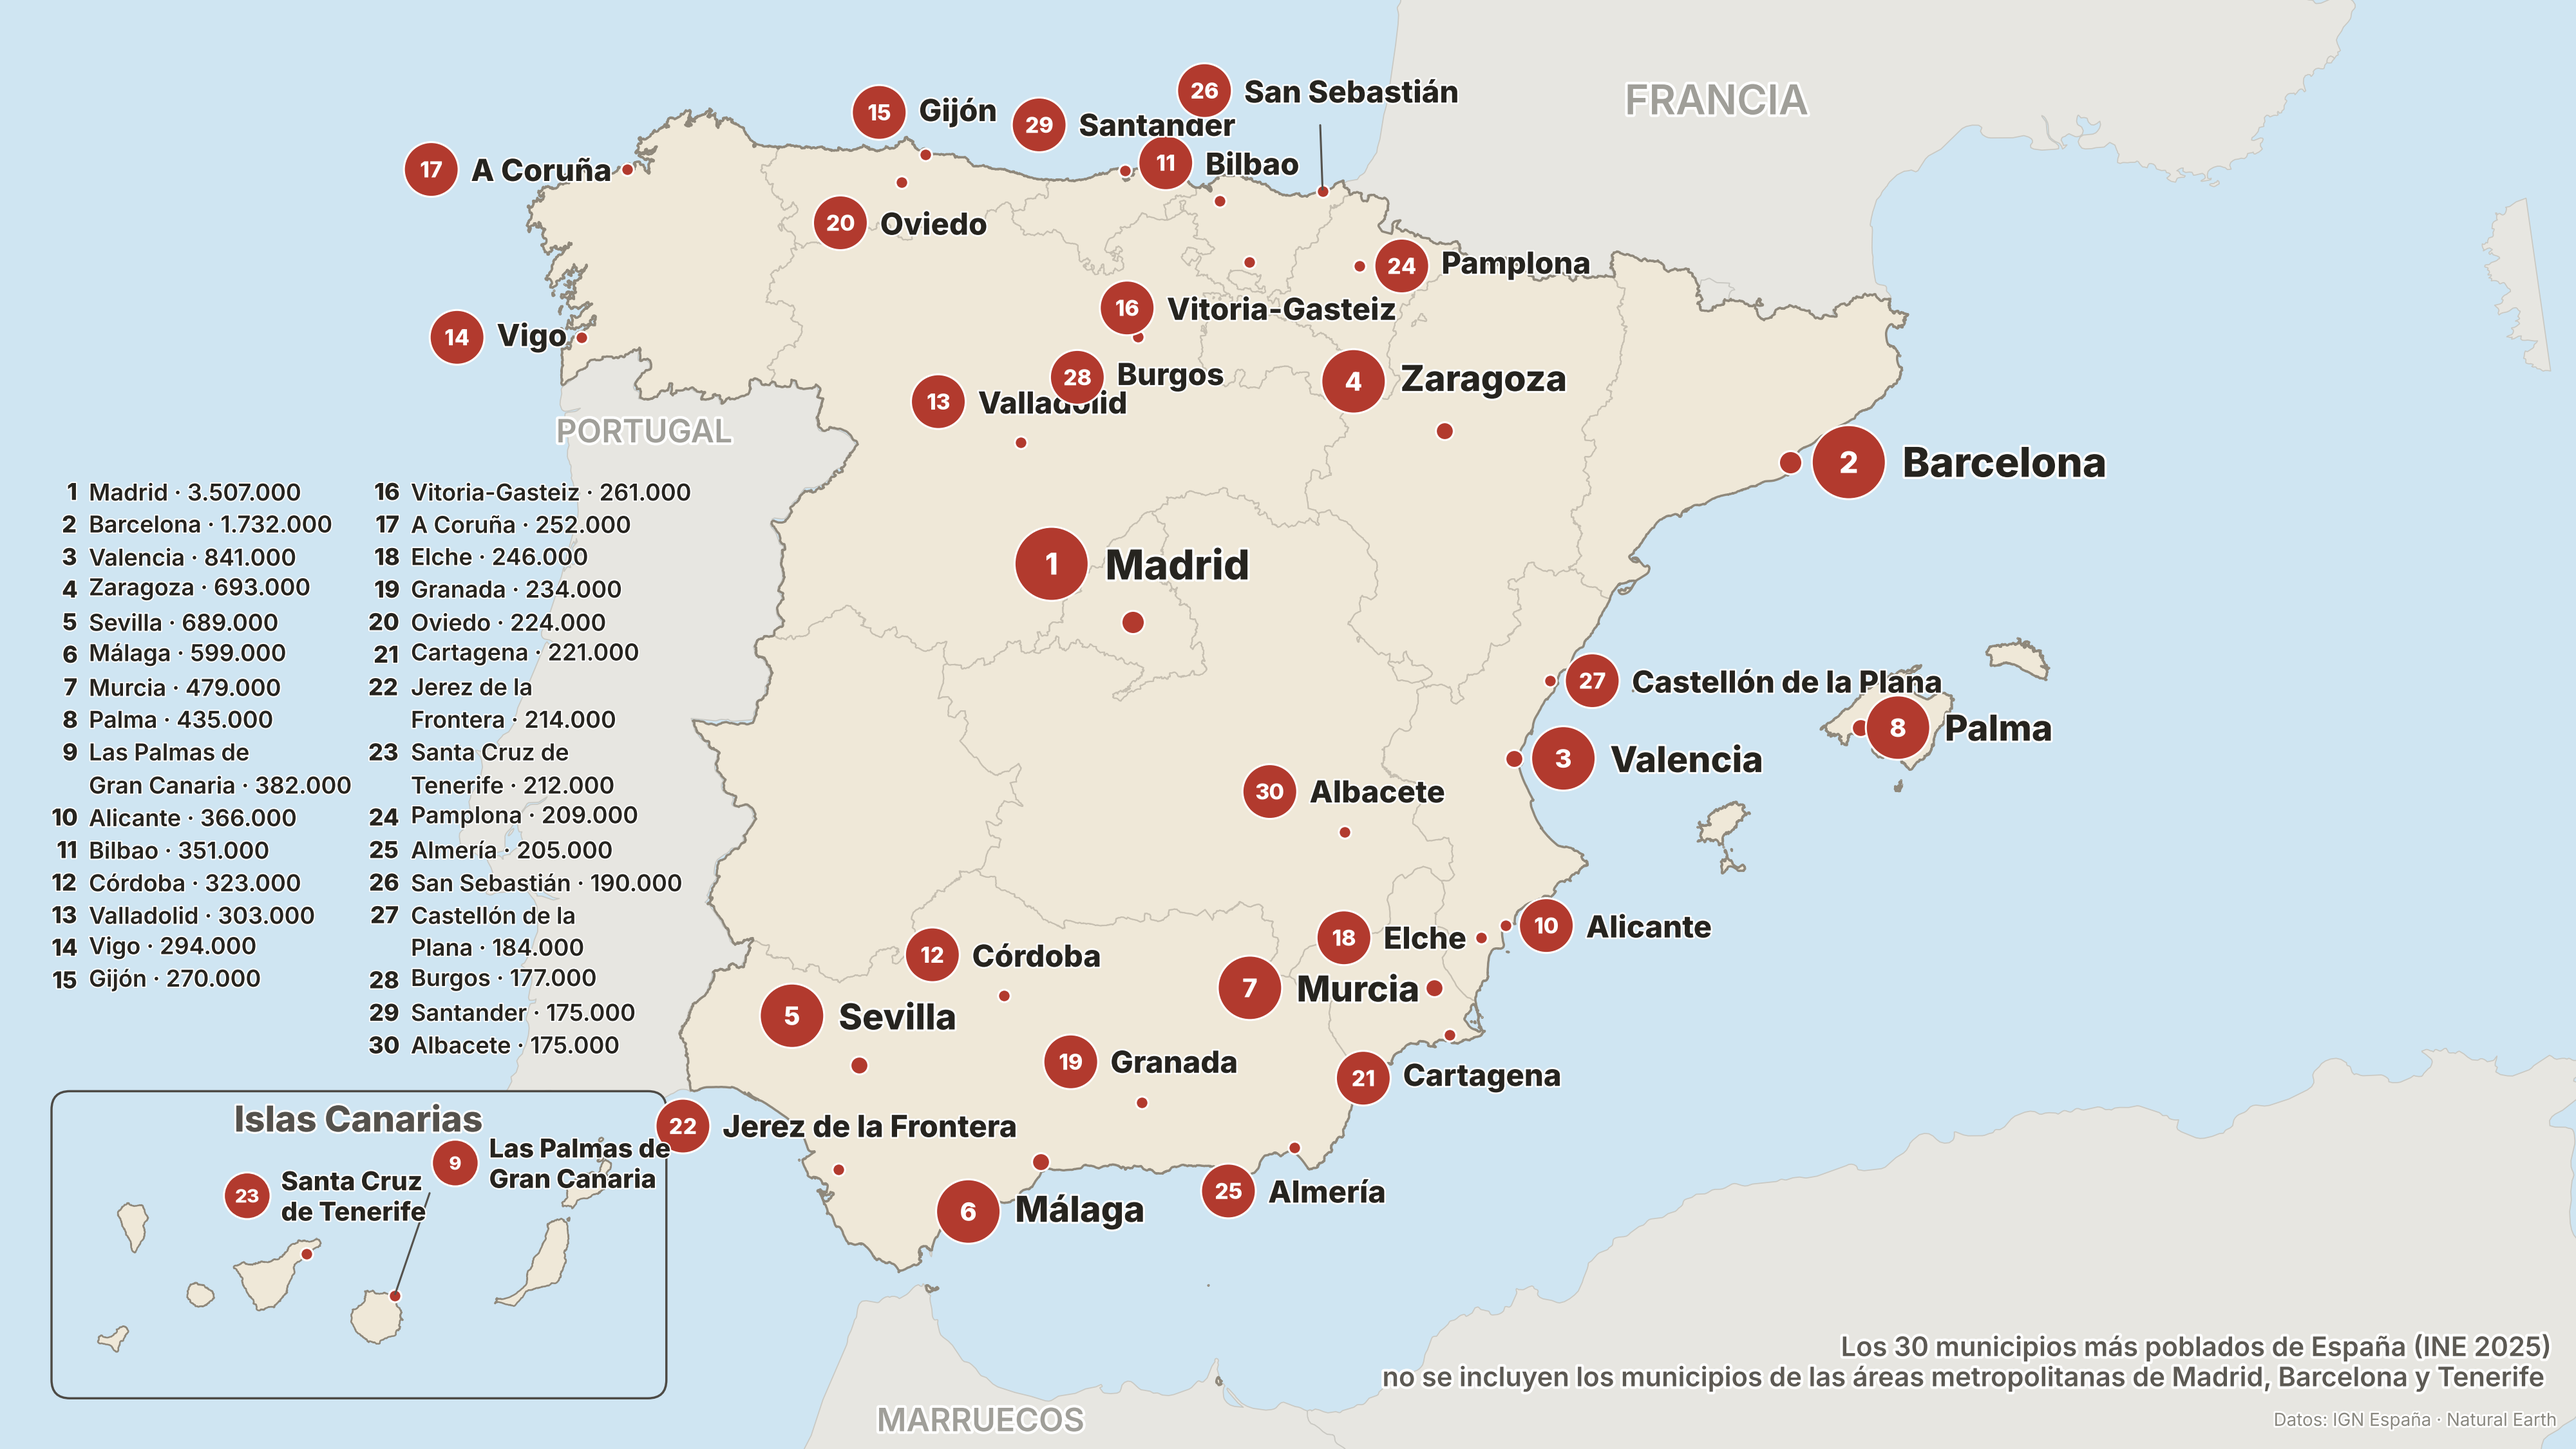
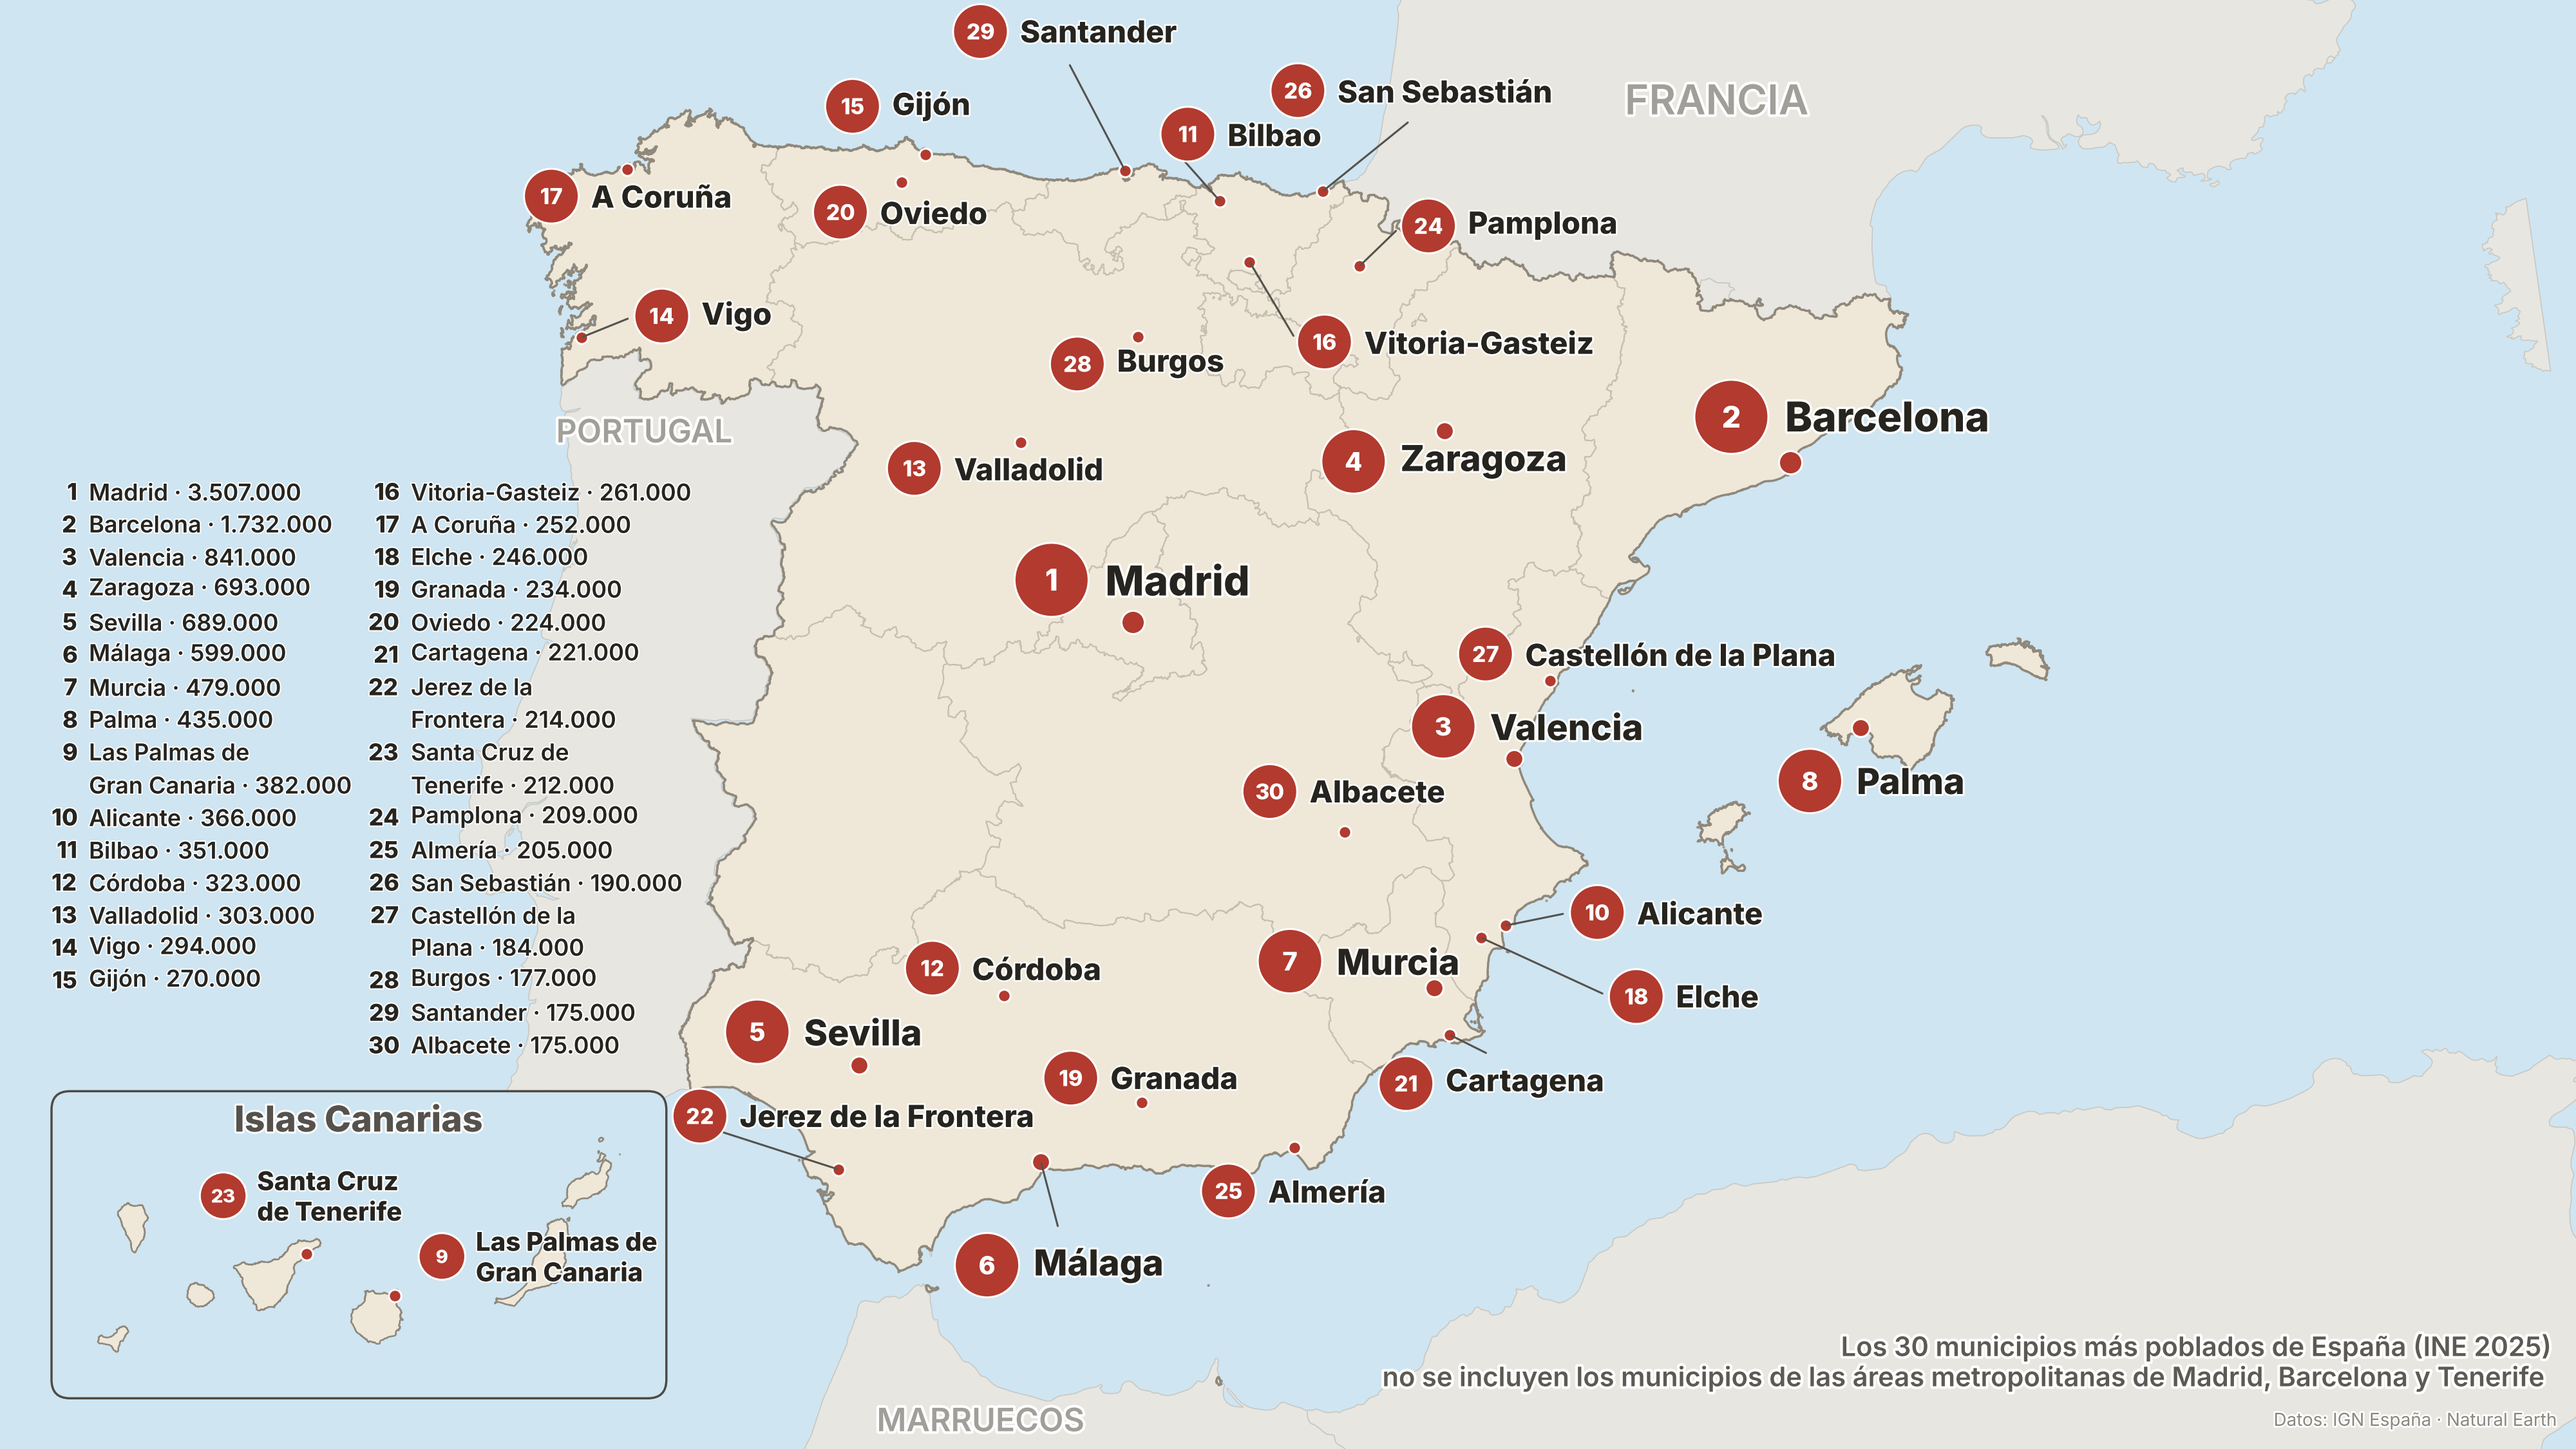
manual adjustments

diff --git a/tvmaps/maps_ciudades.py b/tvmaps/maps_ciudades.py
@@ -54,39 +54,39 @@ class CityLabel:
 
 
 CITY_LABELS = {
-    "Madrid": CityLabel(dy=16, va="bottom"),
-    "Barcelona": CityLabel(dx=16, ha="left"),                 # sea east
-    "Valencia": CityLabel(dx=13, ha="left"),                  # sea east
-    "Zaragoza": CityLabel(dy=13, va="bottom"),
-    "Sevilla": CityLabel(dy=13, va="bottom"),
-    "Málaga": CityLabel(dy=-13, va="top"),                    # sea south
-    "Murcia": CityLabel(dx=-11, ha="right"),
-    "Palma": CityLabel(dx=4, ha="left"),                     # east, over the island
+    "Madrid": CityLabel(dy=4, va="bottom"),
+    "Barcelona": CityLabel(dx=-72, ha="left", dy=34),         # sea east
+    "Valencia": CityLabel(dx=-77, ha="left", dy=24),          # sea east
+    "Zaragoza": CityLabel(dy=-47, va="bottom"),
+    "Sevilla": CityLabel(-26, dy=1, va="bottom"),
+    "Málaga": CityLabel(va="top", tx=14, ty=-53.2),           # sea south
+    "Murcia": CityLabel(dx=19, ha="right", dy=20),
+    "Palma": CityLabel(dx=-62, ha="left", dy=-40),           # east, over the island
     "Las Palmas de Gran Canaria": CityLabel(         # callout up-right, clear
-        tx=28, ty=82, va="bottom", ha="left", size=29,   # of the Santa Cruz
-        wrap="Las Palmas de\nGran Canaria"),              # label and box edge
-    "Alicante": CityLabel(dx=10, ha="left"),                  # sea east
-    "Bilbao": CityLabel(dy=8, va="bottom"),                   # sea above
-    "Córdoba": CityLabel(dy=10, va="bottom"),
-    "Valladolid": CityLabel(dy=10, va="bottom"),
-    "Vigo": CityLabel(dx=-10, ha="right"),                    # sea west
-    "Gijón": CityLabel(dy=11, va="bottom"),                   # sea above
-    "Vitoria-Gasteiz": CityLabel(dy=-14, va="top"),
-    "A Coruña": CityLabel(dx=-10, ha="right"),                # sea west
-    "Elche": CityLabel(dx=-10, ha="right"),
-    "Granada": CityLabel(dy=10, va="bottom"),
-    "Oviedo": CityLabel(dy=-10, va="top"),
-    "Cartagena": CityLabel(dy=-12, va="top"),                 # sea south
-    "Jerez de la Frontera": CityLabel(dy=12, va="bottom"),
+        18, va="bottom", ha="left", size=29,   # of the Santa Cruz
+        wrap="Las Palmas de\nGran Canaria", dy=12),                 # label and box edge
+    "Alicante": CityLabel(ha="left", tx=48.2, ty=9.8),        # sea east
+    "Bilbao": CityLabel(dy=12, ha="left", tx=-44.4, ty=50),   # sea above
+    "Córdoba": CityLabel(va="bottom"),
+    "Valladolid": CityLabel(-18, dy=-40, va="bottom"),
+    "Vigo": CityLabel(ha="left", tx=39.6, ty=16),             # sea west
+    "Gijón": CityLabel(-20, dy=15.6, va="bottom"),            # sea above
+    "Vitoria-Gasteiz": CityLabel(ha="left", tx=35.6, ty=-60),
+    "A Coruña": CityLabel(dx=80, ha="right", dy=-20),         # sea west
+    "Elche": CityLabel(ha="left", tx=95.6, ty=-44),
+    "Granada": CityLabel(dy=-2.2, va="bottom"),
+    "Oviedo": CityLabel(dy=-2, va="top"),
+    "Cartagena": CityLabel(va="top", tx=32, ty=-16),          # sea south
+    "Jerez de la Frontera": CityLabel(ha="left", tx=-124.4, ty=40),
     "Santa Cruz de Tenerife": CityLabel(              # over sea NW of Tenerife
-        dx=-62, dy=26, va="bottom", ha="left", size=29,
+        dx=-80, dy=26, va="bottom", ha="left", size=29,
         wrap="Santa Cruz\nde Tenerife"),
-    "Pamplona": CityLabel(dx=11, ha="left"),
+    "Pamplona": CityLabel(dx=8, ha="left", tx=31, ty=30),
     "Almería": CityLabel(dy=-12, va="top"),                   # sea south
-    "San Sebastián": CityLabel(tx=-2, ty=55, va="bottom"),    # callout to sea
-    "Castellón de la Plana": CityLabel(dx=11, ha="left"),     # sea east
-    "Burgos": CityLabel(dy=-10, va="top"),
-    "Santander": CityLabel(dy=14, va="bottom"),               # sea above
+    "San Sebastián": CityLabel(tx=68, ty=55, va="bottom"),    # callout to sea
+    "Castellón de la Plana": CityLabel(dx=-69, ha="left", dy=20), # sea east
+    "Burgos": CityLabel(va="top"),
+    "Santander": CityLabel(va="bottom", tx=-44, ty=84),       # sea above
     "Albacete": CityLabel(dy=10, va="bottom"),
 }
 
